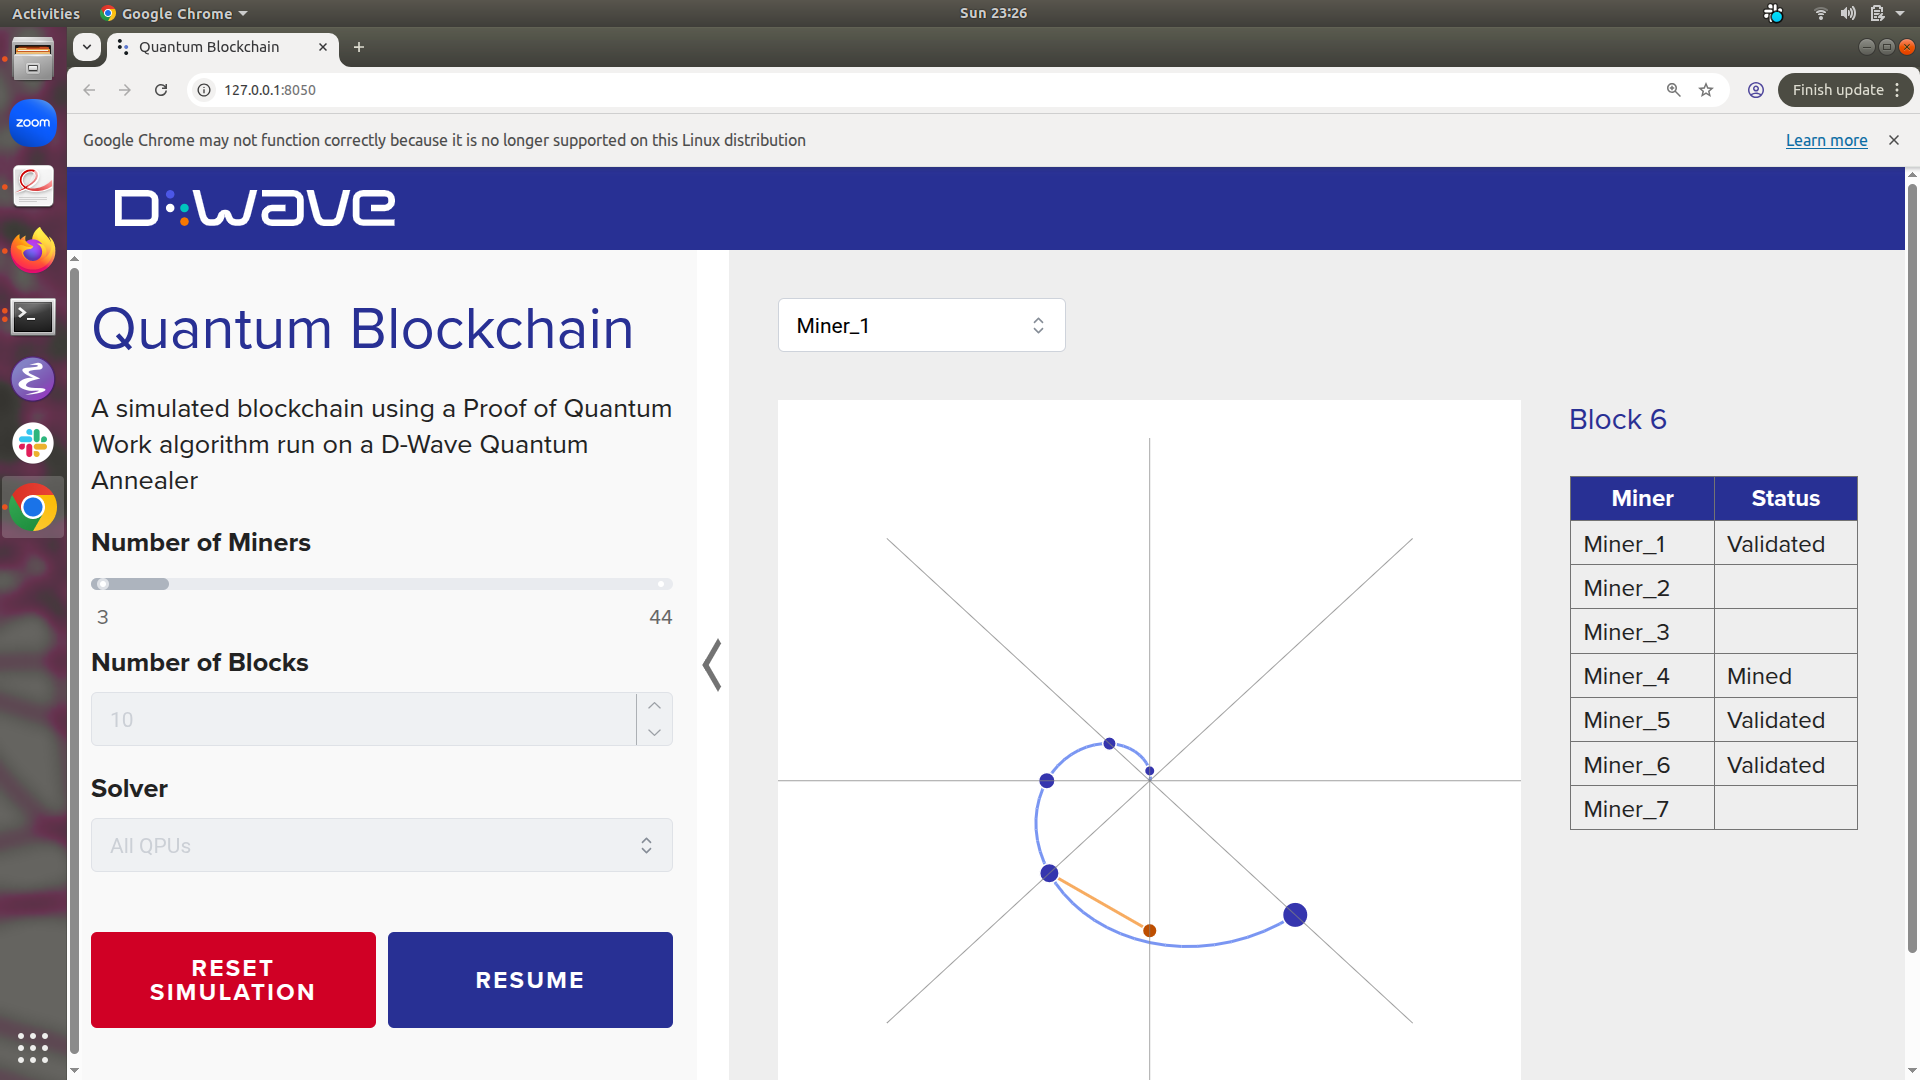
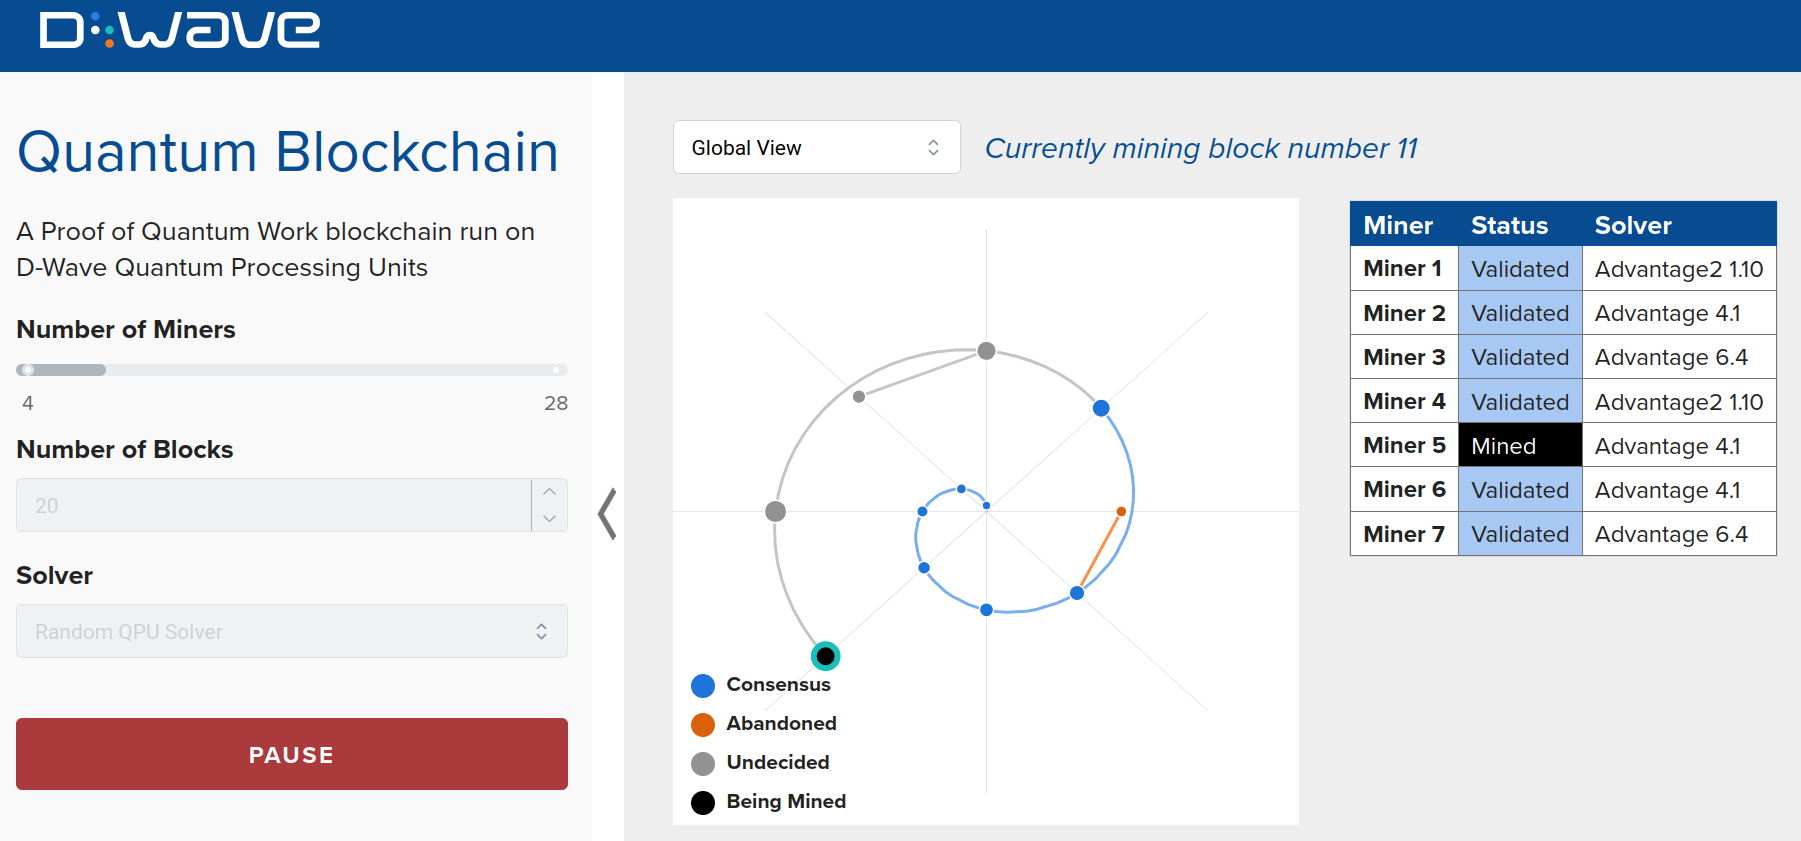
Update README and demo.png image

diff --git a/README.md b/README.md
@@ -66,9 +66,9 @@ from the quantum-blockchain/tests directory.
 
 # Problem Description
 
-This demo implements a simplified version of a blockchain with adherence of miners to the blockchain rules. Modeling of transactions and passive (non-mining) stakeholders is omitted - this does not impact the evolution of the blockchain. Networking delays are not modeled, and miners use identical (by defaulted distributed) computing resources.
+This demo implements a simplified version of a blockchain with adherence of miners to the blockchain rules. Modeling of transactions and passive (non-mining) stakeholders is omitted - this does not impact the evolution of the blockchain. Networking delays are not modeled, and miners use identical (by default distributed) computing resources.
 
-Miners demonstrate completion of quantum work by performing experiments parameterized by the state of the blockchain. Experimental results (sample sets) are post-processed to pairwise correlation statistics. Correlations realized by a particular experiment define a point in a high dimensional space; a miner must find experimental parameters such that this point falls in a small subspace. Miners search by varying nonce parameters, which change the parameters of the unitary evolution and post-processing. Statistics can be digitalized to produce a hash. Any other miner can rerun the experiment to verify a claim of work, up to control and sampling errors. The process of generating a hash is demonstrated below.
+Miners demonstrate completion of quantum work by performing experiments parameterized by the state of the blockchain. Experimental results (sample sets) are post-processed to pairwise correlation statistics. Correlations realized by a particular experiment define a point in a high dimensional space; a miner must find experimental parameters such that this point falls in a small subspace. Miners search by varying a nonce parameter, which controls the parameters of the unitary evolution and post-processing. Statistics can be digitalized to produce a hash. Any other miner can rerun the experiment to verify a claim of work, up to control and sampling errors. The process of generating a hash is demonstrated below.
 
 ![Quantum Hash Generation](static/Quantum_hash_infographic.png "Image of quantum hash generation")
 
@@ -86,14 +86,15 @@ This example implements methods found in the paper, “Blockchain with Proof of 
 
 ### Comparison with Amin et al. Blockchain with Proof of Quantum Work [[1]](#arXiv_2503_14462)
 
-The simulations in this example execute unitary evolutions on cubic spin glasses matching the paper with simple +/- chain work, subject to changes in the generally available solvers.
-The hash length is fixed to 32 and `num_reads` to 600 in order to reduce the QPU access time and accelerate the blockchain evolution (as opposed to the standardized 1 second of QPU access time in the [[1]](#arXiv_2503_14462) experiments).
-<!-- TODO: FIX VERIFICAIONT TYPE, NUM_READS, dW, Nmax and Hash Length TO BEST BRANCHING VALUES, AND DOCUMENT -->
-Problem-Hamiltonian and/or annnealing rescaling allows one processor to emulate another, accommodating differences in the annealing schedules (energy scales). In both the paper and demo the target unitary evolution is defined relative to the Advantage2_prototype2 solver schedule.  Advantage systems modeled this schedule in the paper by lengthening their anneal times, to emulate the higher energy scales of Advantage2, which is also true in the demo. However, Advantage2 solvers (unavailable at the time of the original study) can have higher energy scales than the prototype system and emulation of the unitary dynamics must be achieved by scaling down of the problem Hamliltonian (since we cannot reduce annealing_time beyond the lower bound of 5 nanoseconds).
-Visualization of the blockchain in the paper placed blocks sequential on a spiral, in the demo visualization the strongest chain follows the same parametric spiral, but other (non-strongest, or rejected) branches deviate inwards from that path. Whereas the paper only included 4-color global views, the demo also allows 2-color presentations of the state from an individual miner perspective.
+The simulations in this example execute unitary evolutions on cubic spin glasses matching the paper, subject to changes in the generally available solvers.
+The hash length is fixed to 64 and `num_reads` to 600 in order to reduce the QPU access time and accelerate the blockchain evolution (as opposed to the standardized 1 second of QPU access time in the [[1]](#arXiv_2503_14462) experiments).
 
-The delay and efficiency of quantum blockchains was evaluated in the paper in part by use of bootstrapping methods. The same methods can be implemented in the context of this demo by enaabling SIMULATIONS=True in the demo_configs.py file.
-<!-- TODO: REMOVE SIMULATED SOLVERS OPTIONS BY DEFAULT -->
+The blockchain demo uses confidence-based Chainwork. We choose the quantum hash length as 64, and Nmax (called ALLOWABLE_ERROR in demo) to be 1, which allows comparison to the paper statistics demonstrating high efficiency and small delay if we account for changes to the compute environment. Experiments determine the witness uncertain (due to sampling and control errors at 1 second of QPU access time) to be 0.16 with the current set of generally available QPUs (January 2026). The discrepancy between generally available QPUs was larger (0.18) for the generally available QPUs in the paper experiments. Furthermore number of reads is reduced in the demo (enhancing witness uncerainty). A new default for the dW parameter is set accordingly, matching the paper methods. 
+
+Problem-Hamiltonian and/or annnealing rescaling allows one processor to emulate another, accommodating differences in the annealing schedules (energy scales). In both the paper and demo the target unitary evolution is defined relative to the Advantage2_prototype2 solver schedule.  Advantage systems modeled this schedule in the paper by lengthening their anneal times, to emulate the higher energy scales of Advantage2, which is also true in the demo. However, Advantage2 solvers (unavailable at the time of the original study) can have higher energy scales than the prototype system and emulation of the unitary dynamics must be achieved by scaling down of the problem Hamliltonian (since we cannot reduce annealing_time beyond the lower bound of [currently 5 nanoseconds]).
+Visualization of the blockchain in the paper placed blocks sequential on a spiral, in the demo visualization the strongest chain follows the same parametric spiral, but other (non-strongest, or rejected) branches deviate inwards from that path. Whereas the paper included 4-color global views, the demo also allows 2-color presentations of the state from an individual miner perspective.
+
+The delay and efficiency of quantum blockchains was evaluated in the paper, in part, by use of bootstrapping stratistics. The same methods can be implemented in the context of this demo by enabling HIDE_BOOTSTRAP_SOLVERS=False in the demo_configs.py file.
 
 ## Model and Code Overview
 
@@ -116,7 +117,7 @@ and a set of QPUs (single or multiple). If multiple QPUs are selected, each expe
 
 For each round of mining, one miner is randomly selected to be the 'winner' of that round,
 simulating a distributed community with competitive mining where each miner has an equal chance
-of winning. The winning miner completes a quantum experiment, creates a hash, and publishes a block.
+of winning. The winning miner completes a quantum experiment of sufficient confidence, creates a hash, and publishes a block.
 Each unsuccessful miner validates the block and adjusts their pattern of mining based on the validation.
 As this process iterates a panel is updated to demonstrate verification patterns.
 A central graphic showing the state of the chain is updated showing either a single miner view
@@ -141,14 +142,14 @@ The delay is determined by the number of grey and black blocks, which indicate b
 
 The unitary evolution that defines "the quantum puzzle", is defined by a set of programmable couplers, J, cryptographically determined by the strongest block (the block defining maximum chain work).
 Each coupler is sampled uniformly at random +/- J for each edge matched to a 4x4x4 dimerized cubic lattice, with the desired evolution definded by a 5ns quench on the Advantage2_prototype2 system.
-For other annealing QPUs to emulate the Advantage2_protocol2 schedule it is necessary to perform time energy rescaling (i.e. the rescaling of the problem Hamiltonian and annealing time is device specific with values precalculated).
+For other annealing QPUs to emulate the Advantage2_prototype2 schedule it is necessary to perform time energy rescaling (i.e. the rescaling of the problem Hamiltonian and annealing time is device specific with values precalculated).
 A dimerized cubic lattice is a simple cubic lattice in which each node is replaced by a pair of nodes.
 Miners access QPUs uniformly at random from the specified QPUs.
 The QPU sampling makes use of the Ocean&trade; SDK composites framework with parallel embedding,
 automorphism, and spin-reversal transform (SRT) averaging. The use of automorphism and SRT averaging,
 enhances (relative) control errors, simulating variability that may exist across a more diverse ecosystem of QPUs.
 
-After the sampleset is collected, it is post-processed to nearest neighbor correlations. These correlations are then randomly projected by normally distributed random vectors, to give witnesses. The sign on the witnesses specify the bits of the quantum hash. 
+After the sampleset is collected, it is post-processed to nearest neighbor correlations. These correlations are then randomly projected by normally distributed random vectors, to give witnesses. The sign on the witnesses specify the bits of the quantum hash.
 
 
 ### Per-QPU One-Time Calibration:
